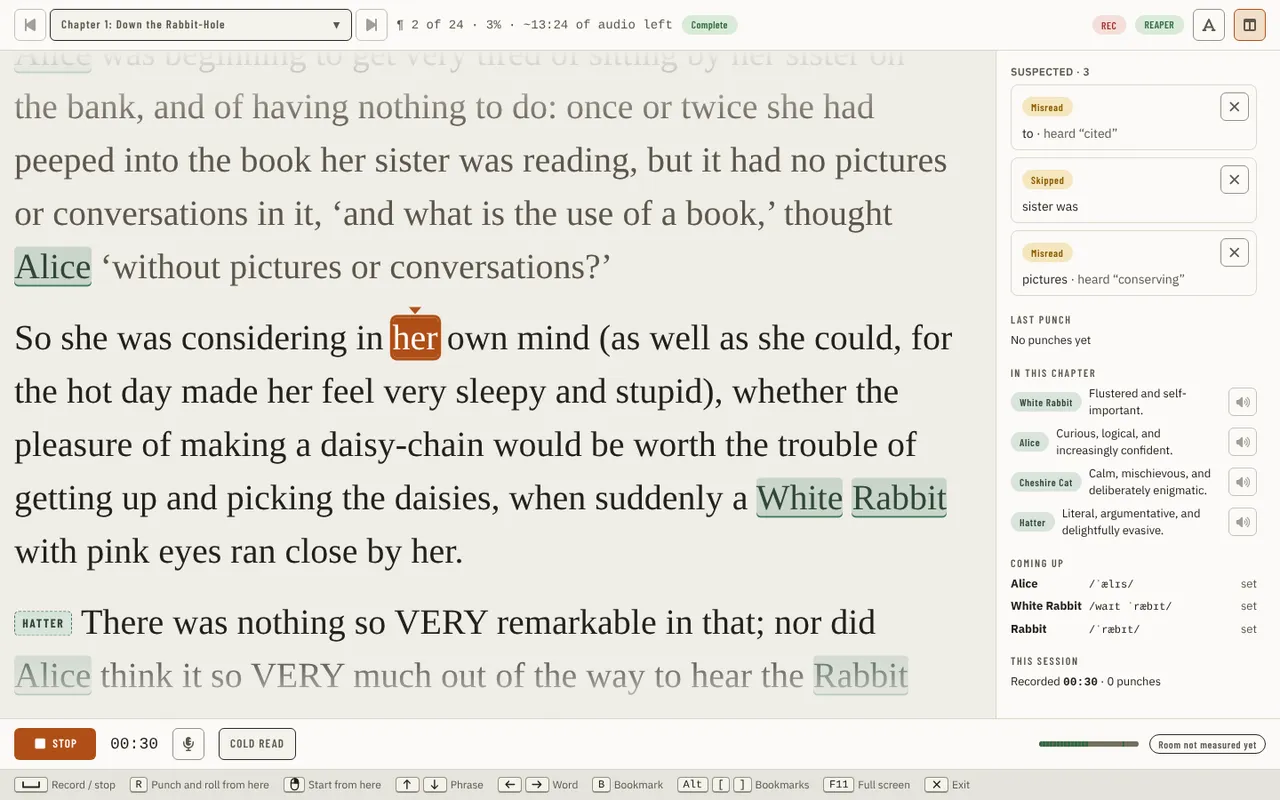
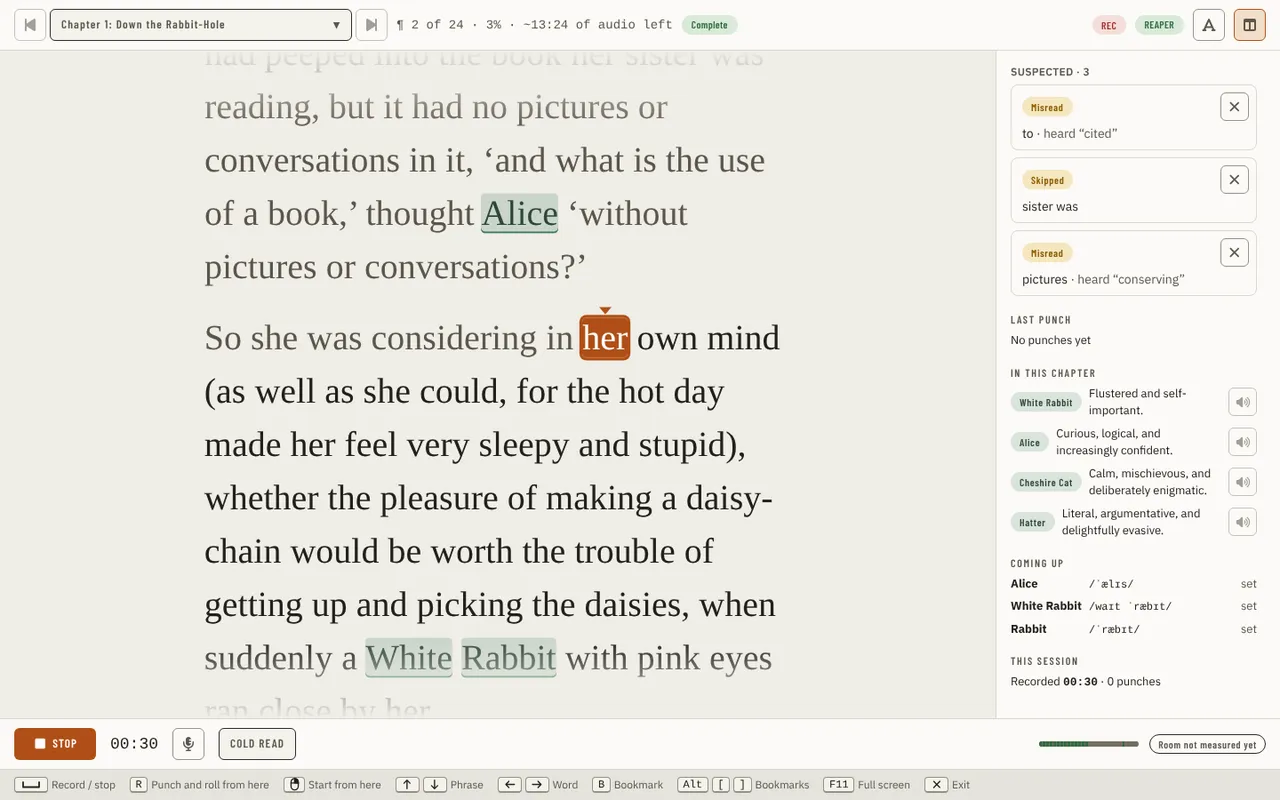
feat(booth): dim words already read one by one, not by sentence (#2621)

diff --git a/src/studio/ui/src/components/booth/reading/BoothText.tsx b/src/studio/ui/src/components/booth/reading/BoothText.tsx
@@ -88,7 +88,8 @@ type UnitProps = {
   seekWord: (unit: BoothUnit, word: number) => number;
 };
 
-// Only what has been read is dimmed: the sentence being read and every sentence not yet read keep the full text colour (the mock's --bup is --ink).
+// Only what has been read is dimmed: the sentence being read keeps the full text colour from its current word on (the words before it are dimmed
+// one by one, `said` in `UnitView`), and every sentence not yet read keeps it whole (the mock's --bup is --ink).
 const MODE_TONE: Record<Mode, string> = { done: 'text-[var(--text-muted)]', cur: 'text-[var(--text)]', next: 'text-[var(--text)]' };
 
 type Token = UnitWords['words'][number];
@@ -151,7 +152,9 @@ const UnitView = memo(function UnitView({
         {words.lead}
         {words.words.map((token) => {
           const now = mode === 'cur' && token.index === wcur;
+          // Words already read are dimmed one by one, not by sentence: every word of a sentence read, and the words before the cursor in the one being read.
           const said = mode === 'cur' && token.index < wcur;
+          const read = mode === 'done' || said;
           const heard = token.index === ghost;
           const look = wordLook(token, now, said);
           return (
@@ -159,6 +162,7 @@ const UnitView = memo(function UnitView({
               <span
                 data-word={token.index}
                 data-current={now ? '' : undefined}
+                data-read={read ? '' : undefined}
                 data-ghost={heard ? '' : undefined}
                 data-find={token.find ? (token.find.kind === 'find' && token.find.current ? 'current' : 'match') : undefined}
                 aria-current={now ? 'true' : undefined}
@@ -169,7 +173,7 @@ const UnitView = memo(function UnitView({
                   now
                     ? 'bg-[var(--accent)] text-[var(--accent-contrast)] shadow-[0_0_0_0.08em_var(--accent)] before:absolute before:top-[-0.3em] before:left-1/2 before:-translate-x-1/2 before:border-x-[0.18em] before:border-t-[0.2em] before:border-x-transparent before:border-t-[var(--accent)] before:content-[""]'
                     : ''
-                } ${heard ? GHOST : ''}`}
+                } ${said ? 'text-[var(--text-muted)]' : ''} ${heard ? GHOST : ''}`}
               >
                 {token.text}
               </span>

diff --git a/src/studio/ui/src/components/booth/reading/BoothText.test.tsx b/src/studio/ui/src/components/booth/reading/BoothText.test.tsx
@@ -62,6 +62,48 @@ describe('read and unread text colour', () => {
   });
 });
 
+describe('words-read-are-dimmed-one-by-one', () => {
+  const words = (state: string) => [...document.querySelectorAll<HTMLElement>(`[data-state="${state}"] [data-word]`)];
+
+  it('dims every word before the current one inside the sentence being read, and nothing at or after it', () => {
+    setup();
+    const cur = words('cur');
+    const at = cur.findIndex((word) => word.hasAttribute('data-current'));
+    expect(at).toBeGreaterThan(0);
+    cur.forEach((word, i) => {
+      expect(word.hasAttribute('data-read'), `word ${i}`).toBe(i < at);
+    });
+  });
+
+  it('dims the current word never, and the words of a sentence not yet read never', () => {
+    setup();
+    expect(document.querySelector('[data-current]')!.hasAttribute('data-read')).toBe(false);
+    for (const word of words('next')) expect(word.hasAttribute('data-read')).toBe(false);
+  });
+
+  it('dims every word of a sentence already read', () => {
+    setup();
+    const done = words('done');
+    expect(done.length).toBeGreaterThan(0);
+    for (const word of done) expect(word.hasAttribute('data-read')).toBe(true);
+  });
+
+  it('moves the dimming one word with the cursor', () => {
+    const { rerender, props } = setup({ position: { paragraphId: 'p2', word: 5 } });
+    const before = document.querySelectorAll('[data-read]').length;
+    rerender(<BoothText {...props} position={{ paragraphId: 'p2', word: 6 }} />);
+    expect(document.querySelectorAll('[data-read]').length).toBe(before + 1);
+  });
+
+  it('dims a tinted word before the cursor in the sentence being read', () => {
+    setup({ position: { paragraphId: 'p1', word: 3 } });
+    const garden = [...document.querySelectorAll<HTMLElement>('[data-word]')].find((word) => word.textContent === 'garden')!;
+    expect(garden.hasAttribute('data-read')).toBe(true);
+    expect(garden.style.color).toBe('var(--text-muted)');
+    expect(garden.style.boxShadow).toBe('inset 0 -2px 0 var(--place)');
+  });
+});
+
 describe('one-phrase-is-lit-the-ones-read-are-dimmed-and-one-word-is-marked', () => {
   it('lights one phrase, dims the ones read and marks exactly one word with no trailing space', () => {
     setup();

diff --git a/docs/design/design-system.md b/docs/design/design-system.md
@@ -325,7 +325,7 @@ Delivery keeps to Master & QC's centred 96 rem column and one `minmax(0,1fr)` tr
 
 ## The Booth's text and side panel
 
-The Booth's text box starts at the page gutter (`--page-gutter`), as its top bar and footer do, and keeps the gutter plus the bookmark margin (28 px) on the right, so a ribbon ends at the gutter instead of the window's edge; the mock's 28 px each side (`.bscript`) left the text 12 px right of the bars (alignment audit XBO-18, XBO-24). A pickup line's bar is drawn at the text's left edge with the line set in after it, where the mock hangs it 20 px into the gutter (`.btext p.pkp`), which put it at the window's edge in a narrow window. As a drawer (1280 px and below) the side panel dims the text it covers with `--panel-scrim`, as the Script and Editing drawers do, at the `--z-panel-scrim` and `--z-panel` layers, and takes the full width under 480 px (XBO-19); the mock draws no dim. Coming up is one grid, so the pronunciations share a column (XBO-23), and a voice's samples toggle is as wide as the sample rows it opens (XBO-26).
+Read text dims word by word in the Booth (#2251): `BoothText` draws every word before the cursor in `--text-muted` (`data-read`), those of a sentence already read and those before the current word in the sentence being read, and the current word and all after it in `--text`; the cursor is the teleprompter's own word index, so no clock is involved (the Editing follow-along's `WordClock` maps a play time to a word, which the Booth never needs). The Booth's text box starts at the page gutter (`--page-gutter`), as its top bar and footer do, and keeps the gutter plus the bookmark margin (28 px) on the right, so a ribbon ends at the gutter instead of the window's edge; the mock's 28 px each side (`.bscript`) left the text 12 px right of the bars (alignment audit XBO-18, XBO-24). A pickup line's bar is drawn at the text's left edge with the line set in after it, where the mock hangs it 20 px into the gutter (`.btext p.pkp`), which put it at the window's edge in a narrow window. As a drawer (1280 px and below) the side panel dims the text it covers with `--panel-scrim`, as the Script and Editing drawers do, at the `--z-panel-scrim` and `--z-panel` layers, and takes the full width under 480 px (XBO-19); the mock draws no dim. Coming up is one grid, so the pronunciations share a column (XBO-23), and a voice's samples toggle is as wide as the sample rows it opens (XBO-26).
 
 ## Pickups page grid and session
 

diff --git a/docs/guides/using-the-app/booth.md b/docs/guides/using-the-app/booth.md
@@ -124,7 +124,12 @@ fixes the problem, or, when there is nothing to fix from the Booth, a message th
 records, and the app does not start listening or play the start tone first. A refusal the DAW gives at the press (a full disk,
 REAPER not confirming in time) is a message with **Check again** too.
 
-![Booth - six seconds into a take: the text follows the voice](../../images/ui/booth-following.webp)
+Words you have read are dimmed one at a time, not by line or sentence: as the caret moves, every word before it turns grey, in the
+sentence you are reading as well as in the ones behind it. The word you are on and everything after it stay in full colour, so the
+text reads as a bright stretch ahead of a grey one that grows with you. A click, an arrow key or **Start from here** that moves the
+caret back brightens those words again.
+
+![Booth - six seconds into a take: the words before the caret are dimmed one by one and the text follows the voice](../../images/ui/booth-following.webp)
 
 A chip under the text, above the footer, names each problem the Booth can fix and opens its dialog again. While it is up the
 footer does not repeat the reason, and the setup chip on the top bar warns too:
